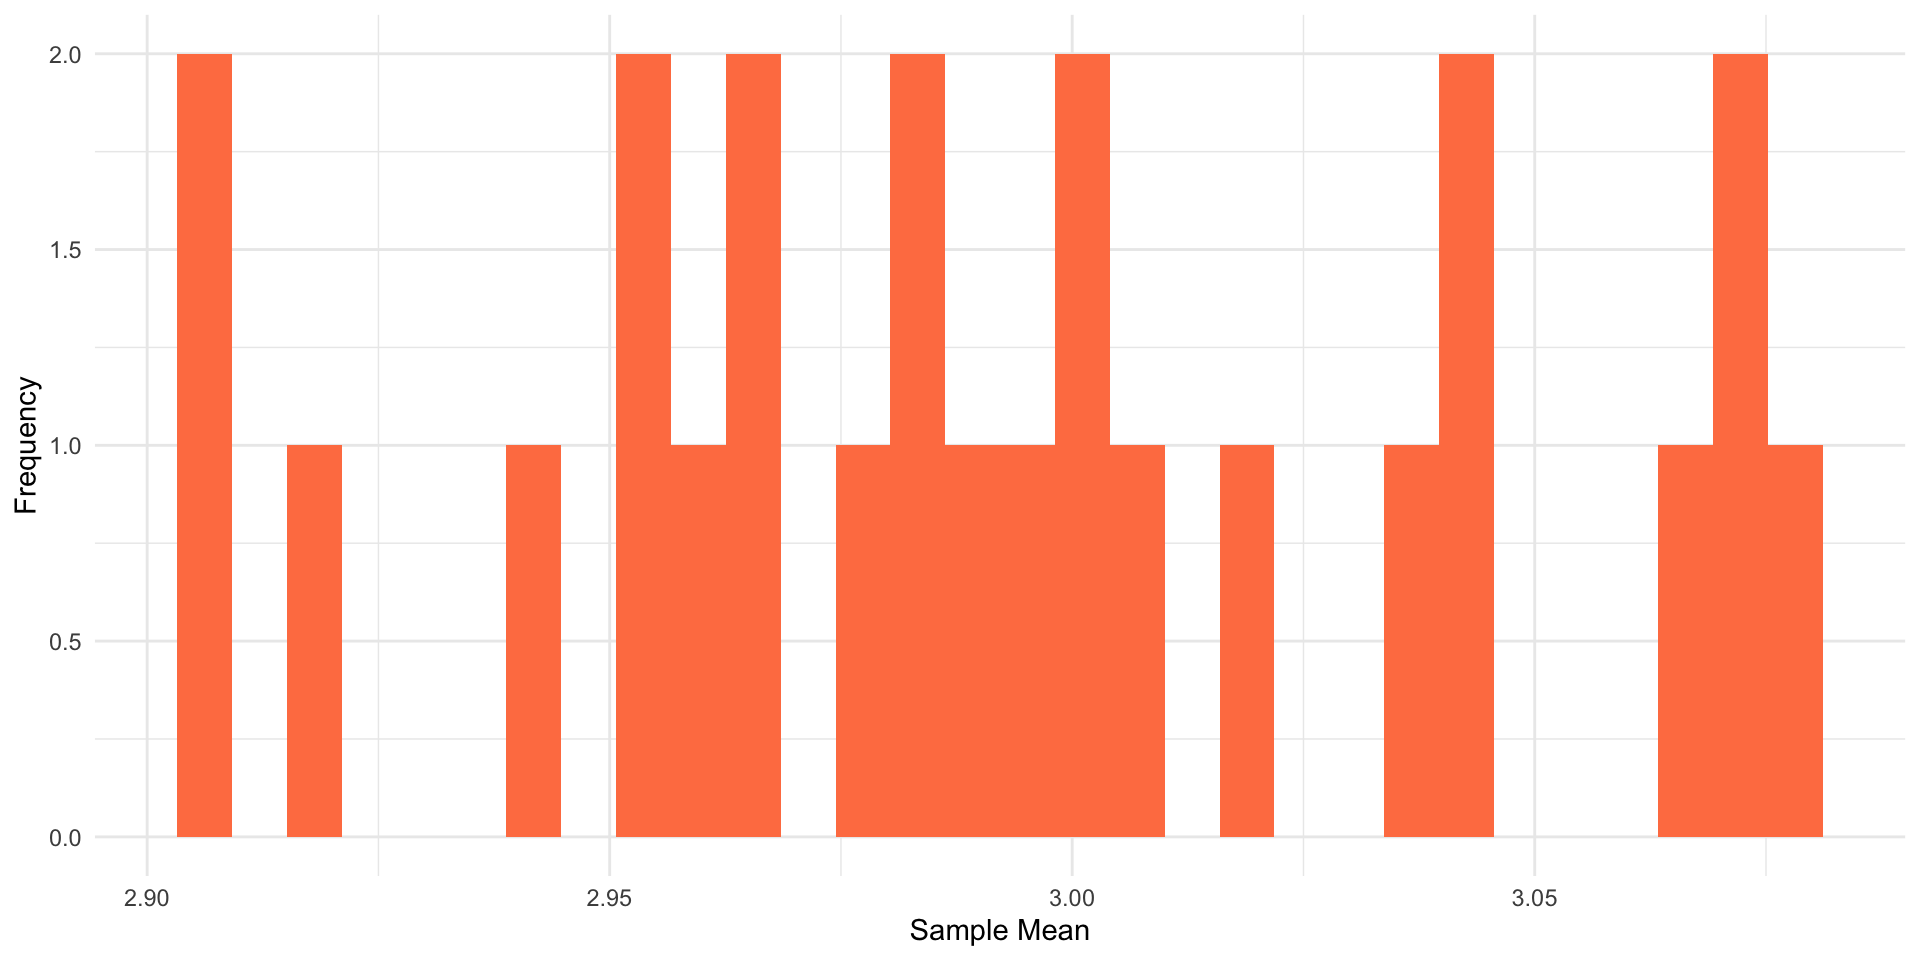
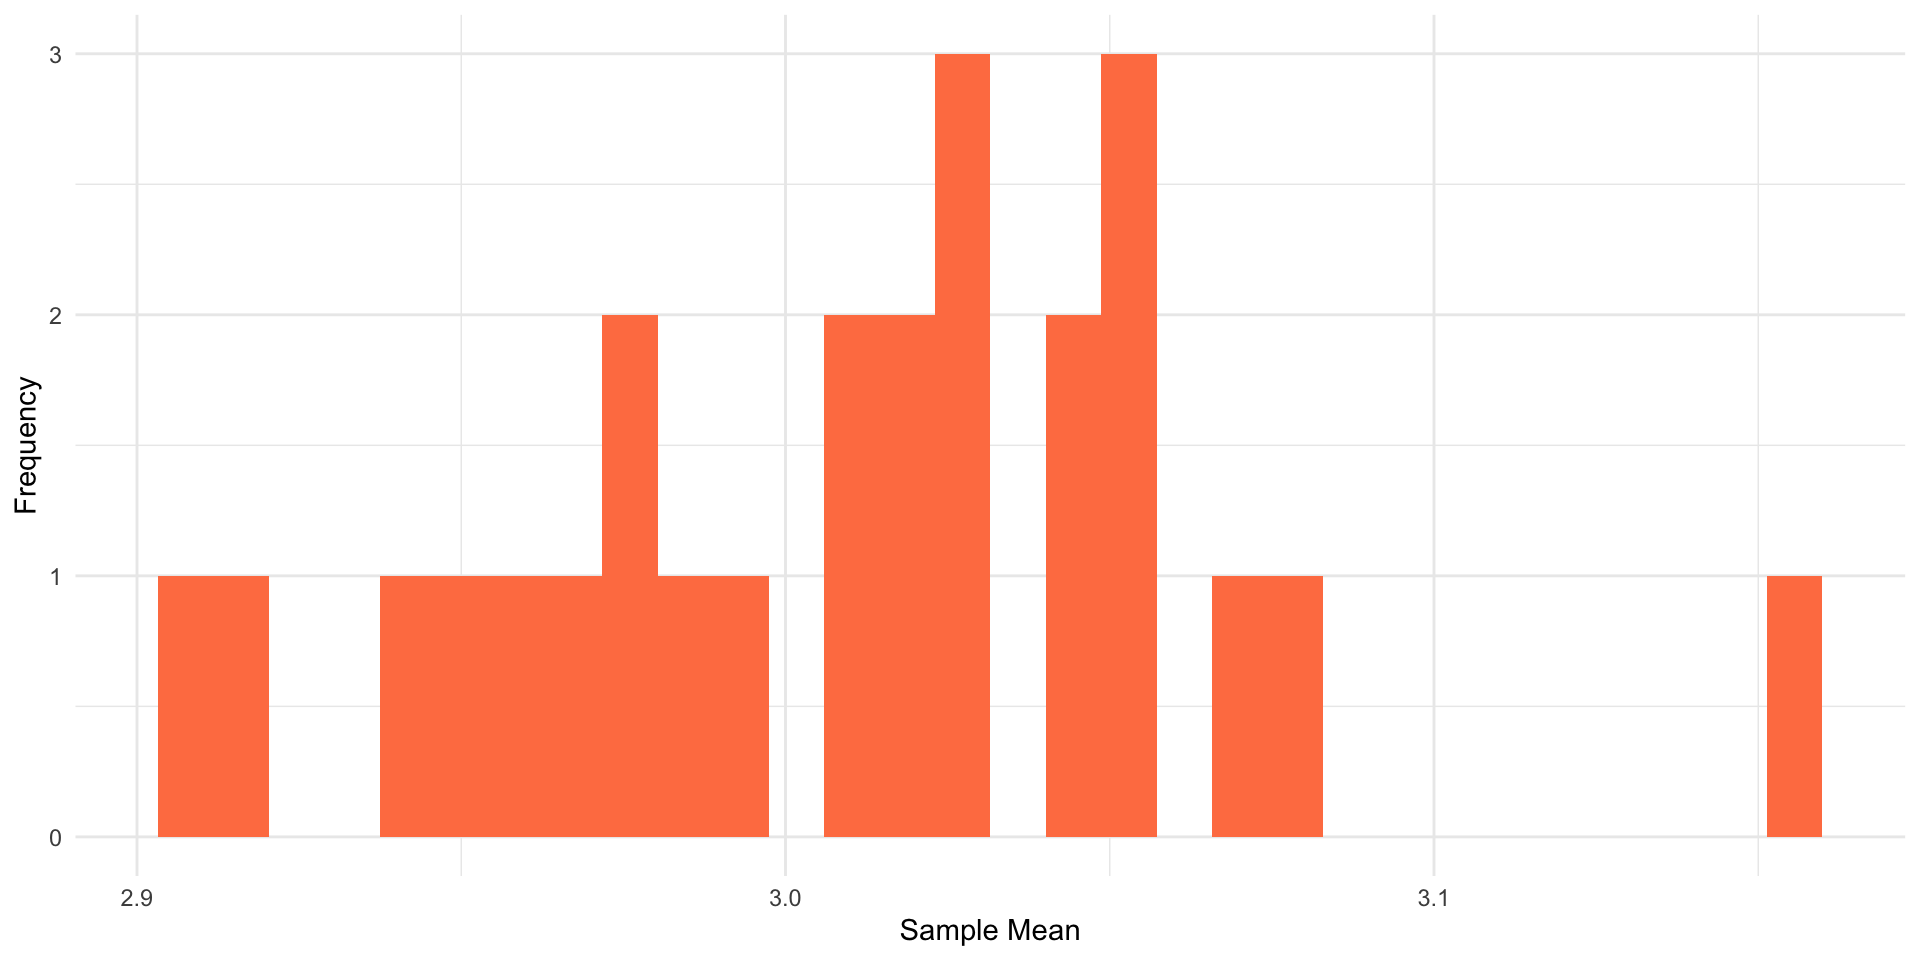
Add

diff --git a/docs/lec8.html b/docs/lec8.html
@@ -386,24 +386,27 @@ Dave Brocker
 <blockquote>
 <p>On a scale of 1 (I hate it with my entire being) to 10 (I believe in my soul that Dark is the best show ever made), how much do you enjoy Dark?</p>
 </blockquote>
-<p><img data-src="images/dark.png"> ## Sampling Theory</p>
+
+<img data-src="images/dark.png" style="border-radius: 15px;" width="419" class="r-stretch"></section>
+<section id="sampling-theory-2" class="slide level2">
+<h2>Sampling Theory</h2>
 <ul>
 <li class="fragment"><p>So each one of you asks 500 people how much they enjoy the Netflix Original Dark.</p></li>
 <li class="fragment"><p>This is you on the street asking people:</p></li>
 </ul>
 <p>[Insert Other Pictures]</p>
 </section>
-<section id="sampling-theory-2" class="slide level2">
+<section id="sampling-theory-3" class="slide level2">
 <h2>Sampling theory</h2>
 <p>How many people did each of you ask?[Make Big text]</p>
 </section>
-<section id="sampling-theory-3" class="slide level2">
+<section id="sampling-theory-4" class="slide level2">
 <h2>Sampling theory</h2>
 <ul>
 <li class="fragment">Once each of you collect 500 responses, I ask you to calculate the average answer. SO you calculate the mean (you add up all 500 responses, and then divide that number by 500).</li>
 </ul>
 </section>
-<section id="sampling-theory-4" class="slide level2">
+<section id="sampling-theory-5" class="slide level2">
 <h2>Sampling theory</h2>
 <div class="cell">
 <div class="cell-output cell-output-stdout">
@@ -411,29 +414,29 @@ Dave Brocker
   Sample  Mean
   &lt;chr&gt;  &lt;dbl&gt;
 1 Dave   10   
-2 Gaby    2.49
-3 Evan    2.56
-4 Mike    3.66
-5 Jeff    3.92
-6 Paul    7.30
-7 Sean    3.66</code></pre>
+2 Gaby    2.50
+3 Evan    6.65
+4 Mike    2.75
+5 Jeff    6.61
+6 Paul    2.15
+7 Sean    4.87</code></pre>
 </div>
 </div>
 </section>
-<section id="sampling-theory-5" class="slide level2">
+<section id="sampling-theory-6" class="slide level2">
 <h2>Sampling theory</h2>
 <ul>
 <li class="fragment"><p>They are the means from each of your samples.</p></li>
 <li class="fragment"><p>These are called <strong>Sample Means</strong></p></li>
 </ul>
 </section>
-<section id="sampling-theory-6" class="slide level2">
+<section id="sampling-theory-7" class="slide level2">
 <h2>Sampling theory</h2>
 <ul>
 <li class="fragment">We can do lots of cool things with Sample Means. We could calculate the Mean of the Sample Means. We could calculate the standard deviation of the Sample Means.</li>
 </ul>
 </section>
-<section id="sampling-theory-7" class="slide level2">
+<section id="sampling-theory-8" class="slide level2">
 <h2>Sampling theory</h2>
 <ul>
 <li class="fragment">It’s theoretical. It doesn’t really exist, but we imagine it’s existence for the sake of Sampling Theory.</li>
@@ -447,11 +450,11 @@ Dave Brocker
 <li class="fragment"><p>If we took samples of the population until we got every single person in the population, then calculated the mean for each sample, they would distribute like this:</p></li>
 </ul>
 </section>
-<section id="sampling-theory-8" class="slide level2">
+<section id="sampling-theory-9" class="slide level2">
 <h2>Sampling theory</h2>
 
 <img data-src="images/bell_prop.png" class="r-stretch"></section>
-<section id="sampling-theory-9" class="slide level2">
+<section id="sampling-theory-10" class="slide level2">
 <h2>Sampling theory</h2>
 <p>[Column Width] - Except now each value in this distribution no longer represents 1 person/participant.</p>
 <ul>
@@ -459,7 +462,7 @@ Dave Brocker
 </ul>
 
 <img data-src="images/bell_prop.png" class="r-stretch"></section>
-<section id="sampling-theory-10" class="slide level2">
+<section id="sampling-theory-11" class="slide level2">
 <h2>Sampling theory</h2>
 <ul>
 <li class="fragment"><p>Except now each value in this distribution no longer represents 1 person/participant.</p></li>
@@ -470,7 +473,7 @@ Dave Brocker
 <h2>What does the Stats Cat say?What does the Stats Cat say?</h2>
 <p><img data-src="images/cat.png"> <span class="math inline">\(\mu\)</span></p>
 </section>
-<section id="sampling-theory-11" class="slide level2">
+<section id="sampling-theory-12" class="slide level2">
 <h2>Sampling theory</h2>
 <ul>
 <li class="fragment"><p>Except now each value in this distribution no longer represents 1 person/participant.</p></li>
@@ -533,7 +536,7 @@ Dave Brocker
 <p>I randomlyu choose a mean from our distirutin of samoe means, about how much people like pizza.</p>
 <p>What is the probability of picking a mean with a z-score of -1 or less?</p>
 
-<img data-src="images/bell_prop.png" class="r-stretch"><h3 id="sampling-theory-12">Sampling theory</h3>
+<img data-src="images/bell_prop.png" class="r-stretch"><h3 id="sampling-theory-13">Sampling theory</h3>
 <blockquote>
 <p>Sampling Theory is the body of principles underlying the drawing of infinite samples that accurately represent the population from which they are taken and to which inferences can be made.</p>
 </blockquote>
@@ -562,7 +565,7 @@ Dave Brocker
 <li class="fragment"><p>Sample mean:</p></li>
 </ul>
 </section>
-<section id="sampling-theory-13" class="slide level2">
+<section id="sampling-theory-14" class="slide level2">
 <h2>Sampling theory</h2>
 <blockquote>
 <p>Sampling Theory is the idea that if we took infinite samples of a population, they would create a normal distribution.</p>
@@ -572,14 +575,14 @@ Dave Brocker
 <li class="fragment"><p>We will use this probability to gauge significance of our inferential statistics.</p></li>
 </ul>
 </section>
-<section id="sampling-theory-14" class="slide level2">
+<section id="sampling-theory-15" class="slide level2">
 <h2>Sampling theory</h2>
 <ul>
 <li class="fragment"><p>The mean of a sample is notated as M.</p></li>
 <li class="fragment"><p>The mean of a population is notated as (<span class="math inline">\(\mu\)</span>).</p></li>
 </ul>
 </section>
-<section id="sampling-theory-15" class="slide level2">
+<section id="sampling-theory-16" class="slide level2">
 <h2>Sampling theory</h2>
 <ul>
 <li class="fragment"><p>The dispersion of a sample is known as the standard deviation, or SD, or sometimes just s.</p></li>
@@ -616,7 +619,7 @@ Dave Brocker
 <h2>P-values</h2>
 <p>[Make Big Text!] ### Hypothesis testing, Pt 1</p>
 </section>
-<section id="sampling-theory-16" class="slide level2">
+<section id="sampling-theory-17" class="slide level2">
 <h2>Sampling theory</h2>
 <ul>
 <li class="fragment"><p>There are about 10,000 students at Farmingdale State College.</p></li>
@@ -625,11 +628,11 @@ Dave Brocker
 <p>We ask every single FSC student to rate their sense of belonging on FSC campus on a scale of 1 (<strong>I don’t belong at all</strong>) to 10 (<strong>I belong completely</strong>).</p>
 <p>We each calculate the average response from our own sample of 400.</p>
 </section>
-<section id="sampling-theory-17" class="slide level2">
+<section id="sampling-theory-18" class="slide level2">
 <h2>Sampling theory</h2>
 
 <img data-src="images/bell_prop.png" class="r-stretch"></section>
-<section id="sampling-theory-18" class="slide level2">
+<section id="sampling-theory-19" class="slide level2">
 <h2>Sampling theory</h2>
 <p>Now we have 25 samples of 400 FSC students each, which equals the full student population of 10,000.</p>
 <p>We take 25 samples of 400 students each from another college…John Jacob Jinglehymer Smith University. JJJSMU also has 10,000 students.</p>
